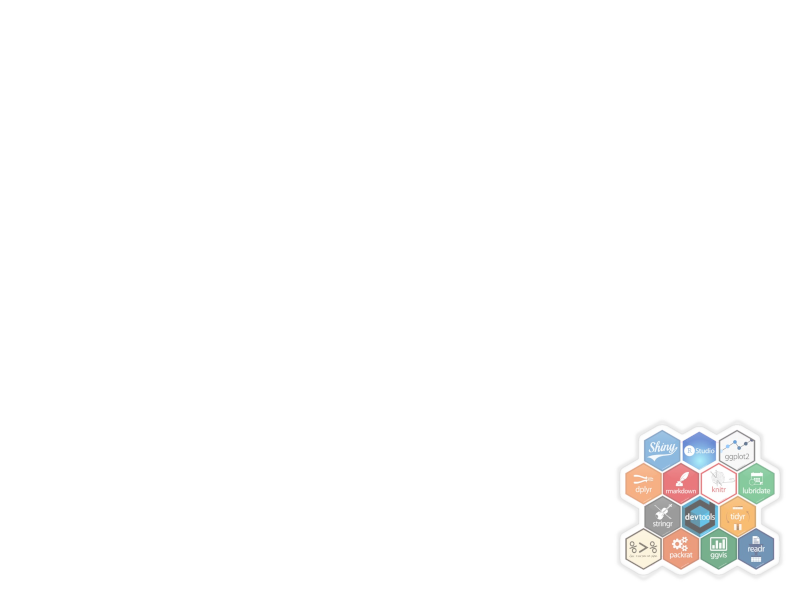
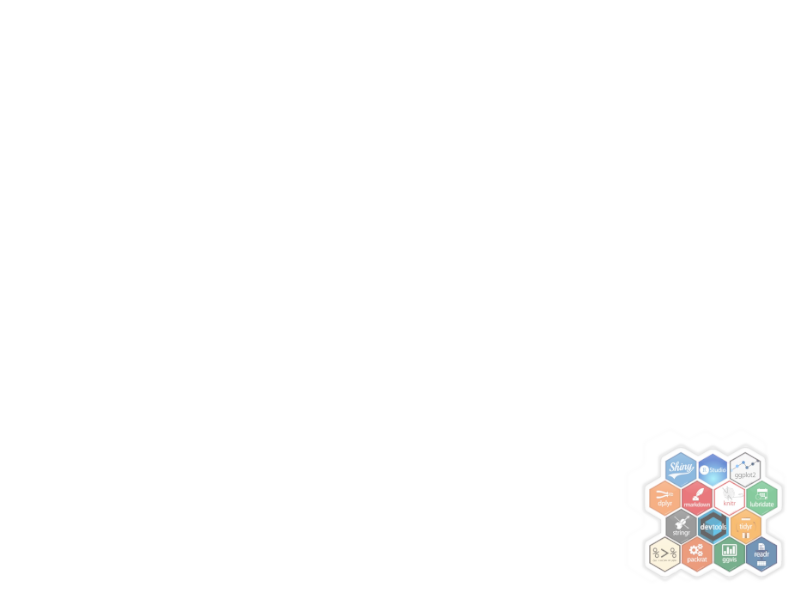
Modifica bckgr de tidyverse y añade contenido de ejemplos

Changed region(s): [[0.7812, 0.72, 1.0, 0.96]]

diff --git a/docs/IntroduccionTidyverse.html b/docs/IntroduccionTidyverse.html
@@ -66,8 +66,12 @@ en memoría para su uso dentro de una sesión o script.
 
 Los paquetes en R se instalan con un solo comando que descarga los paquetes de un repositorio **CRAN**.
 
+&lt;br&gt;
+
 &gt; CRAN : Es un conjunto de servidores que mantienen versiones 
 &gt; actualizadas de código y documentación &lt;sup&gt;3&lt;/sup&gt;
+
+&lt;br&gt;
 
 Por lo tanto la instalación de cualquier paquete en R se puede hacer con un comando:
 
@@ -134,7 +138,7 @@ background-image: url(img/tidyverse_hexs.png)
 # Tidyverse según el manifiesto de Hadley Wickham
 
 [Tidyverse](https://github.com/tidyverse) es la forma rápida y elegante de convertir  `R` base en una herramienta mejorada, 
-rediseñada por Hadley Wickham / Rstudio.
+rediseñada por Hadley Wickham y un equipo muy talentoso.
 
 El desarrollo de todos los paquetes incluidos en `tidyverse` sigue las reglas principales del [manifiesto](https://mran.microsoft.com/web/packages/tidyverse/vignettes/manifesto.html) de [The tidy tools](https://mran.microsoft.com/web/packages/tidyverse/vignettes/manifesto.html).
 
@@ -142,9 +146,9 @@ El desarrollo de todos los paquetes incluidos en `tidyverse` sigue las reglas pr
 Según Wickham:
 
 &gt; El tidyverse es un conjunto de paquetes que funcionan en **armonía** porque
- comparten representaciones de datos comunes y diseño de API. Si tuviera que traducir tidyverse sería algo como una 
- ***diversidad ordenada***. El paquete **tidyverse** está diseñado para facilitar la instalación y carga de los 
-paquetes principales desde el tidyverse en un solo comando.
+&gt; comparten representaciones de datos comunes y diseño de API. 
+&gt; El paquete **tidyverse** está diseñado para facilitar la instalación y carga de los 
+&gt; paquetes principales desde el tidyverse en un solo comando.
 &gt;
 &gt;[R for Data Science](https://r4ds.had.co.nz/).
 
@@ -166,7 +170,7 @@ background-image: url(img/tidyverse_hexs.png)
 
 --
 
-4. Diseñado para que los humanos lo entiendan lo usen
+4. Diseñado para que los humanos lo entiendan y lo usen
 
 --
 
@@ -191,20 +195,6 @@ Las estructuras mas utilizadas en **R** son:
 Existen recientemente estructuras derivadas del **dataframe** como son los **tibble** y los **data.table**.
 E incluso hay paquetes que generan sus propios formatos para transformar datos. Si bien estos puede ser útil en casos
 específicos la mejor opción en R es utilizar las estructuras consolidadas en el lenguaje.
-
----
-# Adopta la programación funcional
-
-Si bien **R** es un lenguaje que puede programarse creando objetos y clases. R brilla cuando se prefiere una
-programación funcional.
-
-Una programación funcional le da prioridad a las funciones lo que favorece una logica directa.
-
-Las funciones ademas se adaptan a la _pipe_ sacando provecho de la concatenación de las mismas.
-
-En R se recomienda el uso de funciones que abstraen a las clasicas estructuras de control de iteraciones como 
-el bucle **loop**.
-
 
 ---
 
@@ -250,13 +240,27 @@ mi_lista &lt;- list(
 ```
 
 ---
+# Adopta la programación funcional
+
+Si bien **R** es un lenguaje que puede programarse creando objetos y clases. R brilla cuando se prefiere una
+programación funcional.
+
+Una programación funcional le da prioridad a las funciones lo que favorece una logica directa.
+
+Las funciones ademas se adaptan a la _pipe_ sacando provecho de la concatenación de las mismas.
+
+En R se recomienda el uso de funciones que abstraen a las clasicas estructuras de control de iteraciones como 
+el bucle **loop**.
+
+
+---
 class: inverse
 background-image: url(img/maggrit_bckgr.png)
 
 # Funciones simples para tareas complejas
 ### El operador pipe %&gt;%
 
-
+&lt;br&gt;
 
 &gt; No importa cuán complejas y pulidas sean las operaciones individuales, a menudo es la calidad del **pegamento**
 &gt; lo que determina más directamente el poder del sistema.
@@ -267,7 +271,7 @@ background-image: url(img/maggrit_bckgr.png)
 background-image: url(img/maggrit_bckgr.png)
 
 # Funciones simples para tareas complejas con el operador pipe
-### %&gt;%
+### El operador pipe %&gt;%
 
 Entre las ventajas de usar la sintaxis y estructura de tidyverse esta el uso del operador **pipe** (**%&gt;%**).
 Este operador permite encadenar una serie de comandos, analogo a los pasos de una receta, que empiezan por la entrada
@@ -293,7 +297,7 @@ mtcars %&gt;%
 background-image: url(img/maggrit_bckgr.png)
 
 # Funciones simples para tareas complejas con el operador pipe
-### %&gt;%
+### El operador pipe %&gt;%
 
 Cabe mencionar que para guardar el resultado al inicio de la secuencia se debe asignar a una variable.
 
@@ -305,14 +309,168 @@ mi_nueva_vairable &lt;- mtcars %&gt;%
 ```
 
 ---
+background-image: url(img/maggrit_bckgr.png)
+
+# Ejemplo
+### El operador pipe %&gt;%
+
+`f(x)` puede ser escrito así `x %&gt;% f` lo que es igual a `argumento %&gt;% función()`
+donde `f` es una función que acepta varios argumentos, el argumento es `x`
+
+Función normal
+
+.pull-left[
+#### Función normal
+
+
+```r
+mean(1:10)
+```
+
+```
+## [1] 5.5
+```
+]
+
+
+
+.pull-right[
+#### Sintaxis Tidy
+
+
+```r
+1:10 %&gt;% mean()
+```
+
+```
+## [1] 5.5
+```
+]
+
+---
+background-image: url(img/maggrit_bckgr.png)
+
+# Ejemplo
+### El operador pipe %&gt;%
+
+Una función con dos argumentos: argumento1 %&gt;% función(argumento2)
+
+.pull-left[
+#### Función normal
+
+
+```r
+round(pi, 6)
+```
+
+```
+## [1] 3.141593
+```
+]
+
+
+
+.pull-right[
+#### Sintaxis Tidy
+
+
+```r
+pi %&gt;% round(6)
+```
+
+```
+## [1] 3.141593
+```
+]
+
+---
 class: inverse
 
-# Diseñado para que los humanos lo entiendan lo usen
+# Diseñado para que los humanos lo entiendan
+
+&lt;br&gt;
 
 &gt; Los programas deben estar escritos para que las personas los lean, y solo de manera incidental para que 
 &gt; las computadoras los ejecuten.
 &gt;
 &gt; *- Hal Abelson*
+
+---
+
+# Diseñado para que los humanos lo entiendan
+
+Una base incluida con **R** es `mtcars` que contiene información del desempeño, cilindraje y otras medidas
+para diferentes marcas de autos:
+
+### Primeros renglones de dataset
+
+
+```r
+head(mtcars)
+```
+
+```
+##                    mpg cyl disp  hp drat    wt  qsec vs am gear carb
+## Mazda RX4         21.0   6  160 110 3.90 2.620 16.46  0  1    4    4
+## Mazda RX4 Wag     21.0   6  160 110 3.90 2.875 17.02  0  1    4    4
+## Datsun 710        22.8   4  108  93 3.85 2.320 18.61  1  1    4    1
+## Hornet 4 Drive    21.4   6  258 110 3.08 3.215 19.44  1  0    3    1
+## Hornet Sportabout 18.7   8  360 175 3.15 3.440 17.02  0  0    3    2
+## Valiant           18.1   6  225 105 2.76 3.460 20.22  1  0    3    1
+```
+
+---
+
+# Diseñado para que los humanos lo entiendan
+
+Si quisieramos calcular la media de las variables mpg (millas por galón) y hp (poder-caballos de fuerza),
+pero sólo de los coches de 4 y 6 cilindros (cyl) y con un peso pequeño, menor a 3k lbs (w)...
+
+
+```r
+# 1) Seleccionamos las variables:
+mtcars_4variables &lt;- select(mtcars, mpg, hp, cyl, wt)
+# 2) Filtramos aquellos carros (observaciones) que se van a procesar:
+mtcars_4_6cyl_w &lt;- filter(mtcars_4variables, cyl != 8 &amp; wt &lt; 3.000)
+# 3) Agrupamos los datos porla variable para clasificar, i.e. cyl
+mtcars_2grupos &lt;- group_by(mtcars_4_6cyl_w, cyl)
+# 4) calculamos la media de las dos variables: hp y mpg
+mtcars_media_mpg_hp &lt;- summarize(mtcars_2grupos, mean(mpg), mean(hp))
+# 5) observamos el resultado
+mtcars_media_mpg_hp
+```
+
+```
+## # A tibble: 2 x 3
+##     cyl `mean(mpg)` `mean(hp)`
+##   &lt;dbl&gt;       &lt;dbl&gt;      &lt;dbl&gt;
+## 1     4        27.3       83.6
+## 2     6        20.6      132.
+```
+
+
+---
+
+# Diseñado para que los humanos lo entiendan
+
+### Usando el comando pipe
+
+
+```r
+mtcars %&gt;% 
+  select(mpg, hp, cyl, wt) %&gt;% 
+  filter(cyl != 8 &amp; wt &lt; 3.000) %&gt;% 
+  group_by(cyl) %&gt;% 
+  summarize(mean(hp), mean(mpg))
+```
+
+```
+## # A tibble: 2 x 3
+##     cyl `mean(hp)` `mean(mpg)`
+##   &lt;dbl&gt;      &lt;dbl&gt;       &lt;dbl&gt;
+## 1     4       83.6        27.3
+## 2     6      132.         20.6
+```
     </textarea>
 <style data-target="print-only">@media screen {.remark-slide-container{display:block;}.remark-slide-scaler{box-shadow:none;}}</style>
 <script src="https://remarkjs.com/downloads/remark-latest.min.js"></script>

diff --git a/docs/libs/custom.css b/docs/libs/custom.css
@@ -2,3 +2,9 @@
   background-image: url(../img/logo_aprendr.png);
   background-size: 150px;
 }
+.large {
+  font-size: 130%;
+}
+.small {
+  font-size: 70%; 
+}
